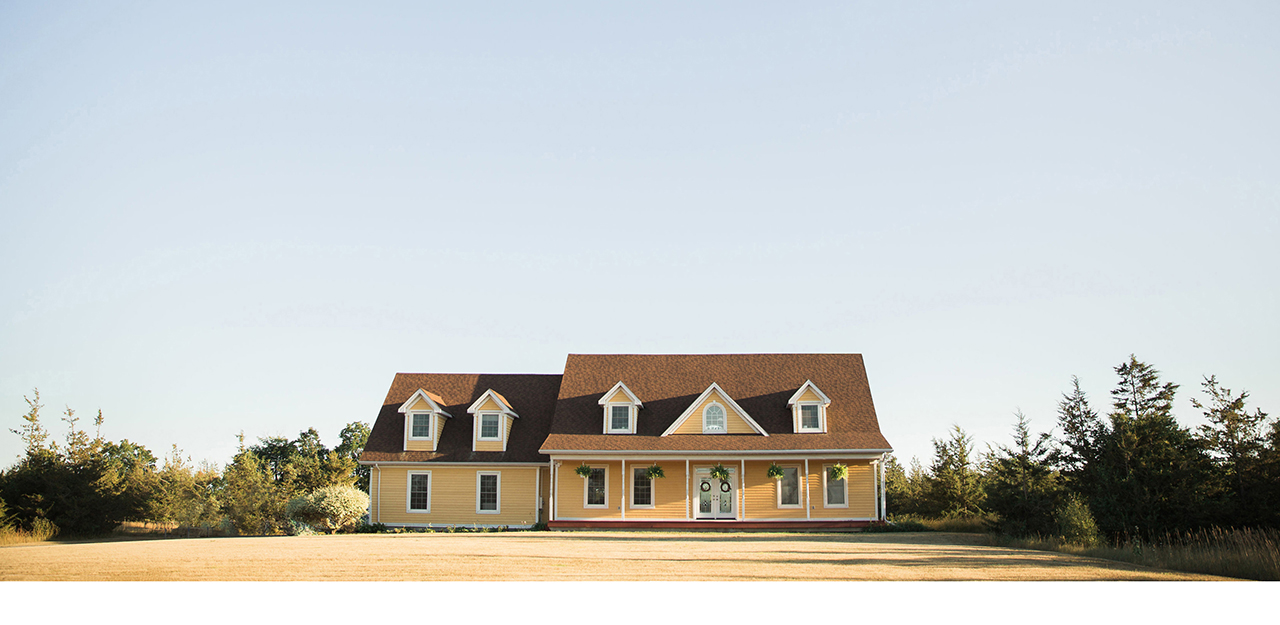
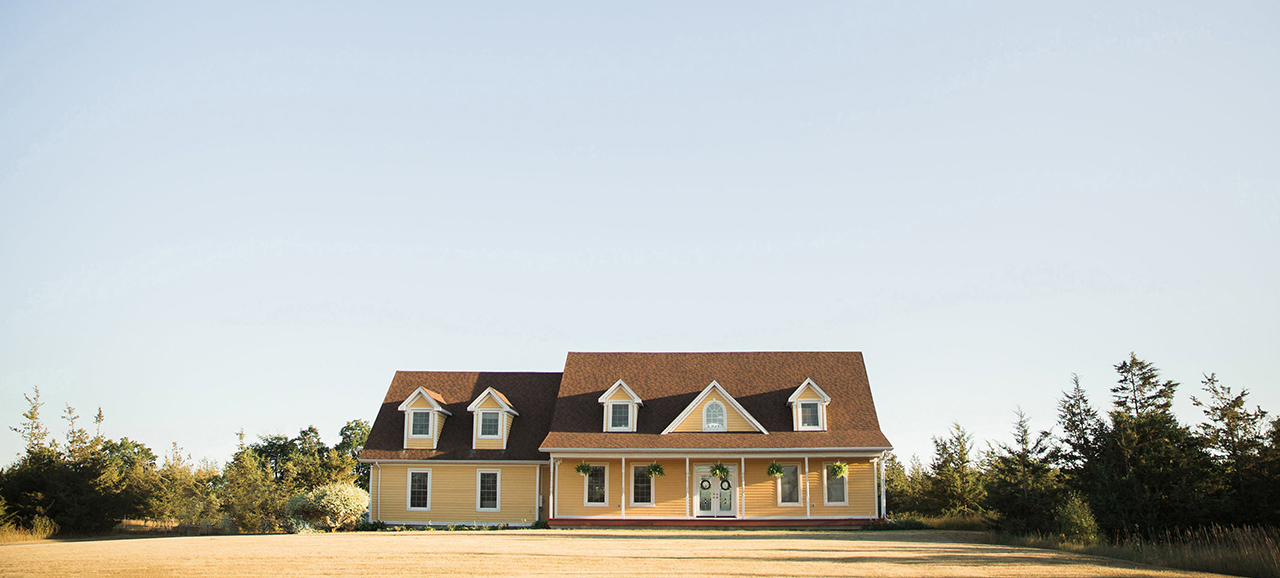
Fix width issue

diff --git a/src/components/ImageContainer/ImageContainer.js b/src/components/ImageContainer/ImageContainer.js
@@ -9,12 +9,7 @@ const ImageContainer = (props) => {
           data-testid="component-image-container"
           className={styles.container}
         >
-          <img
-            src={props.portraitSrc}
-            alt={props.alt}
-            data-testid="portrait"
-            className={styles.portrait}
-          />
+          <img src={props.portraitSrc} alt={props.alt} data-testid="portrait" />
         </div>
       </Orientation>
       <Orientation orientation="landscape" alwaysRender={false}>
@@ -23,7 +18,6 @@ const ImageContainer = (props) => {
           className={styles.container}
         >
           <img
-            className={styles.landscape}
             src={props.landscapeSrc}
             alt={props.alt}
             data-testid="landscape"

diff --git a/src/components/ImageContainer/ImageContainer.module.scss b/src/components/ImageContainer/ImageContainer.module.scss
@@ -4,14 +4,9 @@
   align-items: center;
   height: 80vh;
   overflow: hidden;
-}
 
-.landscape {
-  height: 100%;
-  width: auto;
-}
-
-.portrait {
-  width: 100%;
-  height: auto;
+  img {
+    width: 100%;
+    height: auto;
+  }
 }
